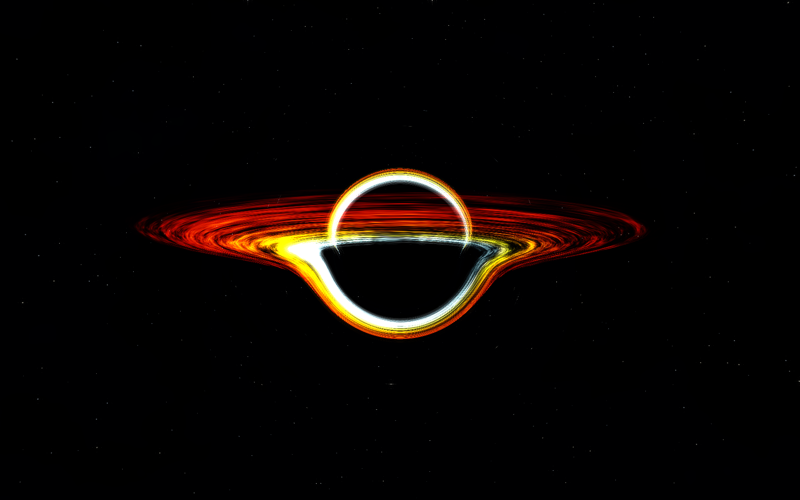
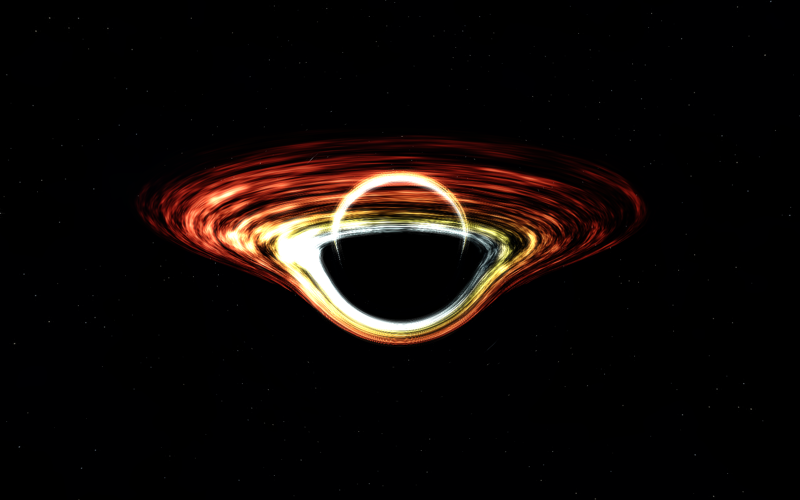
Black Hole: Angle control + softer warm palette; Starfield: crisp stars
- Black Hole: add adjustable Angle (camera elevation, edge-on → top-down);
  desaturate/warm the disk for a softer look; web demo matches + Angle slider
- Starfield: replace soft blob stars with a tight crisp core (no blur, no cell
  seams) for higher-quality points

Changed region(s): [[0.1562, 0.27, 0.8125, 0.69]]

diff --git a/Shared/Effects.swift b/Shared/Effects.swift
@@ -222,7 +222,8 @@ enum EffectKind: String, Codable, CaseIterable {
                                  ParamSpec("stars", "Stars", 0, 2, def: 1),
                                  ParamSpec("planets", "Planet Speed", 0, 3, def: 1),
                                  ParamSpec("orbits", "Orbit Lines", 0, 1, def: 1, toggle: true)]
-        case .blackhole: return [ParamSpec("mass", "Mass", 0.15, 0.8, def: 0.4),
+        case .blackhole: return [ParamSpec("angle", "Angle", 0.05, 1.4, def: 0.22),
+                                 ParamSpec("mass", "Mass", 0.15, 0.8, def: 0.4),
                                  ParamSpec("brightness", "Brightness", 1, 10, def: 5),
                                  ParamSpec("speed", "Speed", 0, 3, def: 1),
                                  ParamSpec("stars", "Stars", 0, 3, def: 1),
@@ -312,7 +313,7 @@ extension EffectInstance {
         case .starfield: u.p0 = .init(g("speed"), g("density"), g("warp"), g("size"))
         case .universe:  u.p0 = .init(g("scale"), g("speed"), g("stars"), g("planets"))
         case .blackhole: u.p0 = .init(g("mass"), g("brightness"), g("rot"), g("disk"))
-                         u.p1 = .init(g("speed"), g("stars"), 0, 0)
+                         u.p1 = .init(g("speed"), g("stars"), g("angle"), 0)
         }
     }
 }

diff --git a/Shared/DefaultPresets.swift b/Shared/DefaultPresets.swift
@@ -122,7 +122,7 @@ enum DefaultPresets {
                    effects: [fx(.universe, ["scale": 1.0, "speed": 1, "stars": 1, "planets": 1, "orbits": 1],
                                 a: .black)]),
             Preset(name: "Black Hole",
-                   effects: [fx(.blackhole, ["mass": 0.4, "brightness": 5, "speed": 1, "stars": 1, "rot": -8.7, "disk": 1],
+                   effects: [fx(.blackhole, ["angle": 0.22, "mass": 0.4, "brightness": 5, "speed": 1, "stars": 1, "rot": -8.7, "disk": 1],
                                 a: .black),
                              fx(.bloom, ["thr": 0.4, "inten": 1.0, "rad": 4.5])]),
         ]
